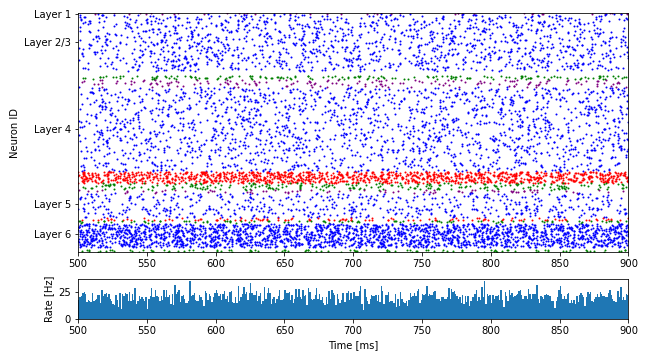
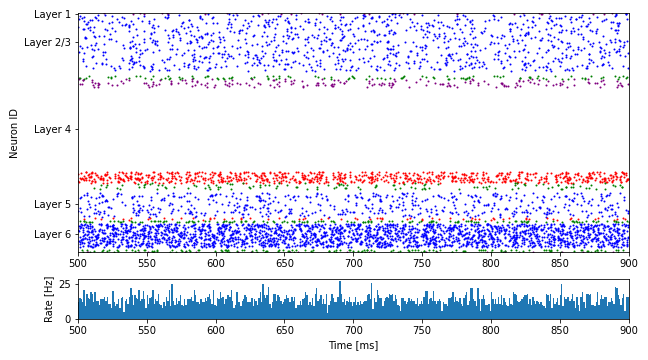
some optimization

Changed region(s): [[0.1235, 0.0306, 0.9877, 0.7639], [0.0926, 0.7639, 0.9877, 0.8861], [0.5247, 0.8861, 0.5556, 0.9472]]

diff --git a/simulation/functions.py b/simulation/functions.py
@@ -425,7 +425,7 @@ def rate(spikes, rec_start, rec_stop):
     print(f'Average firing rate: {average_firing_rate} Hz')
     
 
-def approximate_lfp_timecourse(data, times, label):
+def approximate_lfp_timecourse(data, times):
     """
     This function calculates the approximated lfp timecourse for the current layer using the
     methodology from Mazzoni et al. (2015). Amplitude depends on the depth and location
@@ -436,9 +436,7 @@ def approximate_lfp_timecourse(data, times, label):
     ----------
     data : list
         Should contain the 'events' dictionaries for each neuronal population
-        of the current layer
-    times: list
-        Contains the timesteps in miliseconds
+        of the current layer and a label entry indicating excitatory ("E") or otherwise
     label: list
         Contains the label of each neuronal population in data indicating
         whether they are excitatory or inhibitory
@@ -450,20 +448,23 @@ def approximate_lfp_timecourse(data, times, label):
         for the current layer
 
     """
-    ## calculate a delay of 6ms depending on resolution
-    t = np.argwhere(times - min(times) >= 6)
-    t = t.reshape(t.shape[0],)
+    ## We are using a delay of 6ms in the excitatory populations to calculate the LFP
+    ## (See the Mazzoni paper)
+    ## Get the positions for the data used in the excitatory populations. Dependent on resolution
+    
+    delay = np.argwhere(times - min(times) >= 6)
+    delay = delay.reshape(delay.shape[0],)    
     
     ## initialize arrays that will contain the sums of excitatory and inhibitory currents
-    cin = np.zeros((len(t),))
-    cex = np.zeros((len(t),))
+    cin = np.zeros((len(delay),))
+    cex = np.zeros((len(delay),))
     
     ## Go through all different neuronal populations of the current layer
     for d in range(len(data)):
         ## get the relevant data for the population
         senders = np.array(data[d]["senders"])
         I_syn = np.array(data[d]["I_syn"])
-        l = label[d]
+        l = data[d]["label"]
         
         ## neuronal populations always have sequential IDs upon creation
         ## so we just need the first and last ID of the current population
@@ -472,22 +473,19 @@ def approximate_lfp_timecourse(data, times, label):
         
         ## get a list containing the synaptic current
         ## recordings per neuron
-        mmdata = []
-        for s in range(mn, mx+1):
-            mmdata.append( I_syn[senders == s] )
-        
+        mmdata = [I_syn[senders == s] for s in list(range(mn, mx+1))]
         
         ## The currents are already sorted by time, just
         ## sum them up at each point in time and save them in an array
-        currentsum = np.zeros(len(t))
+        currentsum = np.zeros(len(delay))
         if l == "E":
-            for i in range(min(t), max(t)+1):
+            for i in range(min(delay), max(delay)+1):
                 tmpsum = 0
                 for n in mmdata:
                     tmpsum += n[i]
-                currentsum[i-min(t)] = tmpsum
+                currentsum[i-min(delay)] = tmpsum
         else:
-            for i in range(max(t)-min(t)+1):
+            for i in range(max(delay)-min(delay)+1):
                 tmpsum = 0
                 for n in mmdata:
                     tmpsum += n[i]
@@ -501,11 +499,10 @@ def approximate_lfp_timecourse(data, times, label):
             cin += currentsum
     
     
-    ## Apply the formula: norm[sum(current_ex) - 1.65 * sum[current_inh]]
-    
+    # Apply the formula: norm[sum(current_ex) - 1.65 * sum[current_inh]]
     normalized = cex - 1.65*cin 
     normalized = normalized - np.mean(normalized)
-    ## normalize(cex - 1.65*cin)
+    # normalize(cex - 1.65*cin)
     
     # for x in mmall:
     #     for i in range(len(x)):
@@ -537,13 +534,42 @@ def normalize(data):
     return normalized
 
 def get_isi(spike_times):
-    all_isi = [np.diff(x) for x in spike_times]
+    """
+    Calculates the interspike interval (isi) for all populations
+
+    Parameters
+    ----------
+    spike_times : list
+        A list containing the arrays of spike times for each population
+
+    Returns
+    -------
+    list
+        Returns a list of interspike intervalls
+
+    """
+    all_isi = [np.diff(x) for sublist in spike_times for x in sublist]
     return [element for sublist in all_isi for element in sublist]
 
 def get_synchrony():
     pass
 
 def get_irregularity(spike_times):
+    """
+    Calculates an irregularity measure based on Potjans & Diesmann (2014)
+    https://www.ncbi.nlm.nih.gov/pmc/articles/PMC3920768/
+
+    Parameters
+    ----------
+    spike_times : list
+        A list containing the arrays of spike times for each population
+
+    Returns
+    -------
+    cv : float
+        A measure of irregularity, bounded between 0 and 1, where 1 is the highest and 0 the lowest.
+
+    """
     isi = get_isi(spike_times)
     mean_isi = np.mean(isi)
     cv = np.std(isi) / mean_isi

diff --git a/simulation/run.py b/simulation/run.py
@@ -8,6 +8,7 @@ import matplotlib.pyplot as plt
 import nest
 from functions import Network, raster, rate, approximate_lfp_timecourse, get_isi, get_firing_rate, get_irregularity, get_synchrony
 #import icsd
+import time
 
 ########################
 ## Set NEST Variables ##
@@ -46,8 +47,8 @@ label = ['Htr','E','Pv','Sst','Htr','E','Pv','Sst','Htr','E','Pv','Sst','Htr','E
 parameters = ['adapting_threshold', 'after_spike_currents', 'asc_amps', 'asc_decay', 'asc_init', 'C_m', 'E_L', 'g', 'spike_dependent_threshold', 't_ref', 'tau_syn', 'V_m', 'V_reset', 'V_th']
 
 ## Scaling
-Nscale = 0.05                 ## Scaling the number of neurons in
-Kscale = .13                 ## Scaling the number of connections 
+Nscale = 1.                 ## Scaling the number of neurons in
+Kscale = 1.                 ## Scaling the number of connections 
 Sscale = 1.                 ## Scaling the synaptic strength
 Rscale = Nscale * 0.2       ## Scaling the number of neurons we record from
 
@@ -55,8 +56,8 @@ ext_rate = 900*8 * Kscale   ## Noise rate (Nr. of noise inputs * Frequency * Sca
 
 ## Recording and simulation parameters
 params = {
-    'rec_start': 500.,                  # start point for data recording
-    'rec_stop':  900.,                  # end points for data recording
+    'rec_start': 600.,                  # start point for data recording
+    'rec_stop':  800.,                  # end points for data recording
     'sim_time': 1000.                   # Time the network is simulated in ms
     }
 
@@ -139,7 +140,7 @@ for i in range(len(layertypes)):
 ##L1 | L23e, i | L4e,i | L5e,i | L6e,i
 ext_rates = np.array([1500, 1600, 1500, 1500, 1500, 2100, 1900, 1900, 1900, 2000, 1900, 1900, 1900, 2900, 2100, 2100, 2100]) * 8 * Kscale
 #ext_rates = np.array([1900, 2600, 1500, 1500, 1500, 2100, 1900, 1900, 1900, 2000, 1900, 1900, 1900, 2900, 2100, 2100, 2100]) * 8 * Kscale
-stim_weights = [5, 3.97, 2.2, 4.2, 2.1, 3e0, 7.5e0, 3.6, 0.8, 4.1, 4e0, 1.8, 0.02, 7.5, 2e-20, 3.2, 2.2 ]
+stim_weights = [5, 3.97, 2.2, 4.2, 2.1, 3e-24, 7.5e0, 3.6, 0.8, 4.1, 4e0, 1.8, 0.02, 7.5, 2e-20, 3.2, 2.2 ]
 # relative_weight = [1,                                                                                       ## Layer 1
 #                     1, 3876/(3876 + 2807 + 6683), 2807/(3876 + 2807 + 6683), 6683/(3876 + 2807 + 6683),      ## Layer 23
 #                     1, 9502/(9502+5455+2640), 5455/(9502+5455+2640), 2640/(9502+5455+2640),                  ## Layer 4
@@ -184,17 +185,37 @@ print("Done! Estimating LFPs per layer...")
 
 times = np.unique(mmdata[0]["times"])
 
+## append labels to data
+for i in range(len(mmdata)):
+    mmdata[i].update( {"label":label[i]})
+
 ## Approximate the lfp timecourse per layer
-lfp_tc_l1 = approximate_lfp_timecourse([mmdata[0]], times, label[0])
+lfp_tc_l1 = approximate_lfp_timecourse([mmdata[0]], times)
 print("Layer 1 finished")
-lfp_tc_l2 = approximate_lfp_timecourse(mmdata[1:5], times, label[1:5])
+lfp_tc_l2 = approximate_lfp_timecourse(mmdata[1:5], times)
 print("Layer 2/3 finished")
-lfp_tc_l3 = approximate_lfp_timecourse(mmdata[5:9], times, label[5:9])
+lfp_tc_l3 = approximate_lfp_timecourse(mmdata[5:9], times)
 print("Layer 4 finished")
-lfp_tc_l4 = approximate_lfp_timecourse(mmdata[9:13], times, label[9:13])
+lfp_tc_l4 = approximate_lfp_timecourse(mmdata[9:13], times)
 print("Layer 5 finished")
-lfp_tc_l5 = approximate_lfp_timecourse(mmdata[13:17], times, label[13:17])
+lfp_tc_l5 = approximate_lfp_timecourse(mmdata[13:17], times)
 print("Layer 6 finished, plotting...")
+
+##################
+## Timing Stuff ##
+##################
+# get the start time
+st = time.time()
+
+## The stuff to time
+lfp_tc_l3 = approximate_lfp_timecourse(mmdata[5:9], times)
+
+# get the end time
+et = time.time()
+
+# get the execution time
+elapsed_time = et - st
+print(elapsed_time)
 
 ## Correct for data loss during lfp approximation 
 ## (6ms due to methodological reasons, see approximation function)
@@ -208,6 +229,8 @@ ax.plot(t, lfp_tc_l2, label = "Layer 2/3")
 ax.plot(t, lfp_tc_l3, label = "Layer 4")
 ax.plot(t, lfp_tc_l4, label = "Layer 5")
 ax.plot(t, lfp_tc_l5, label = "Layer 6")
+plt.show()
+
 legend = ax.legend(loc='right', bbox_to_anchor=(1.3, 0.7), shadow=False, ncol=1)
 plt.show()
 plt.savefig('LFP_approximation.png')
